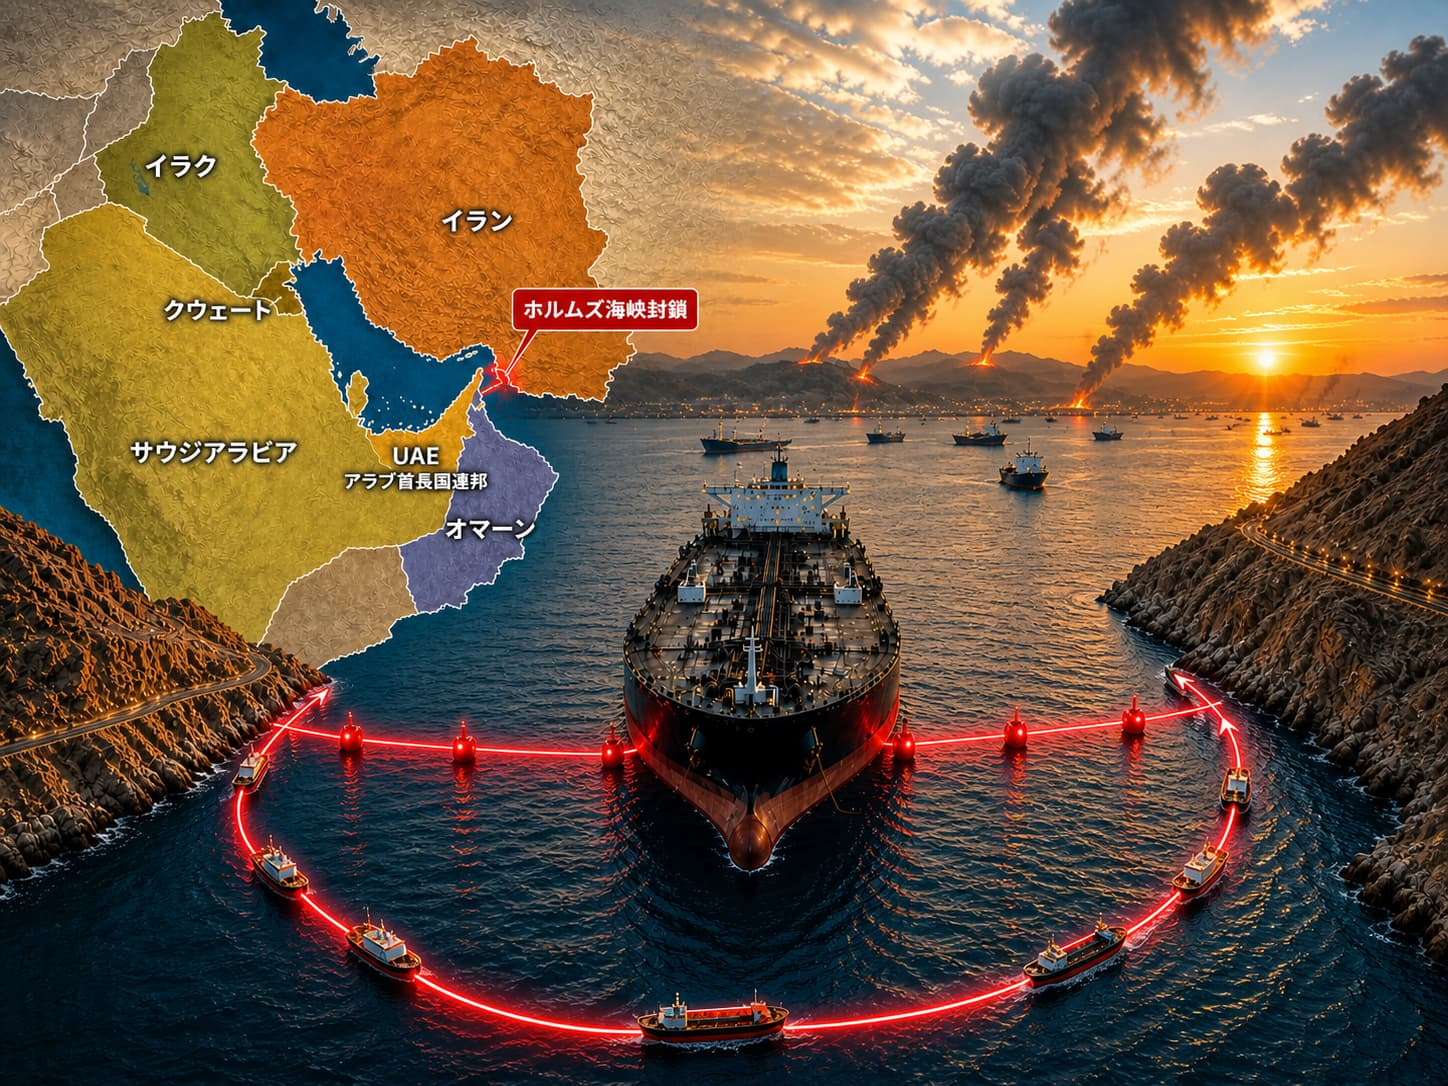
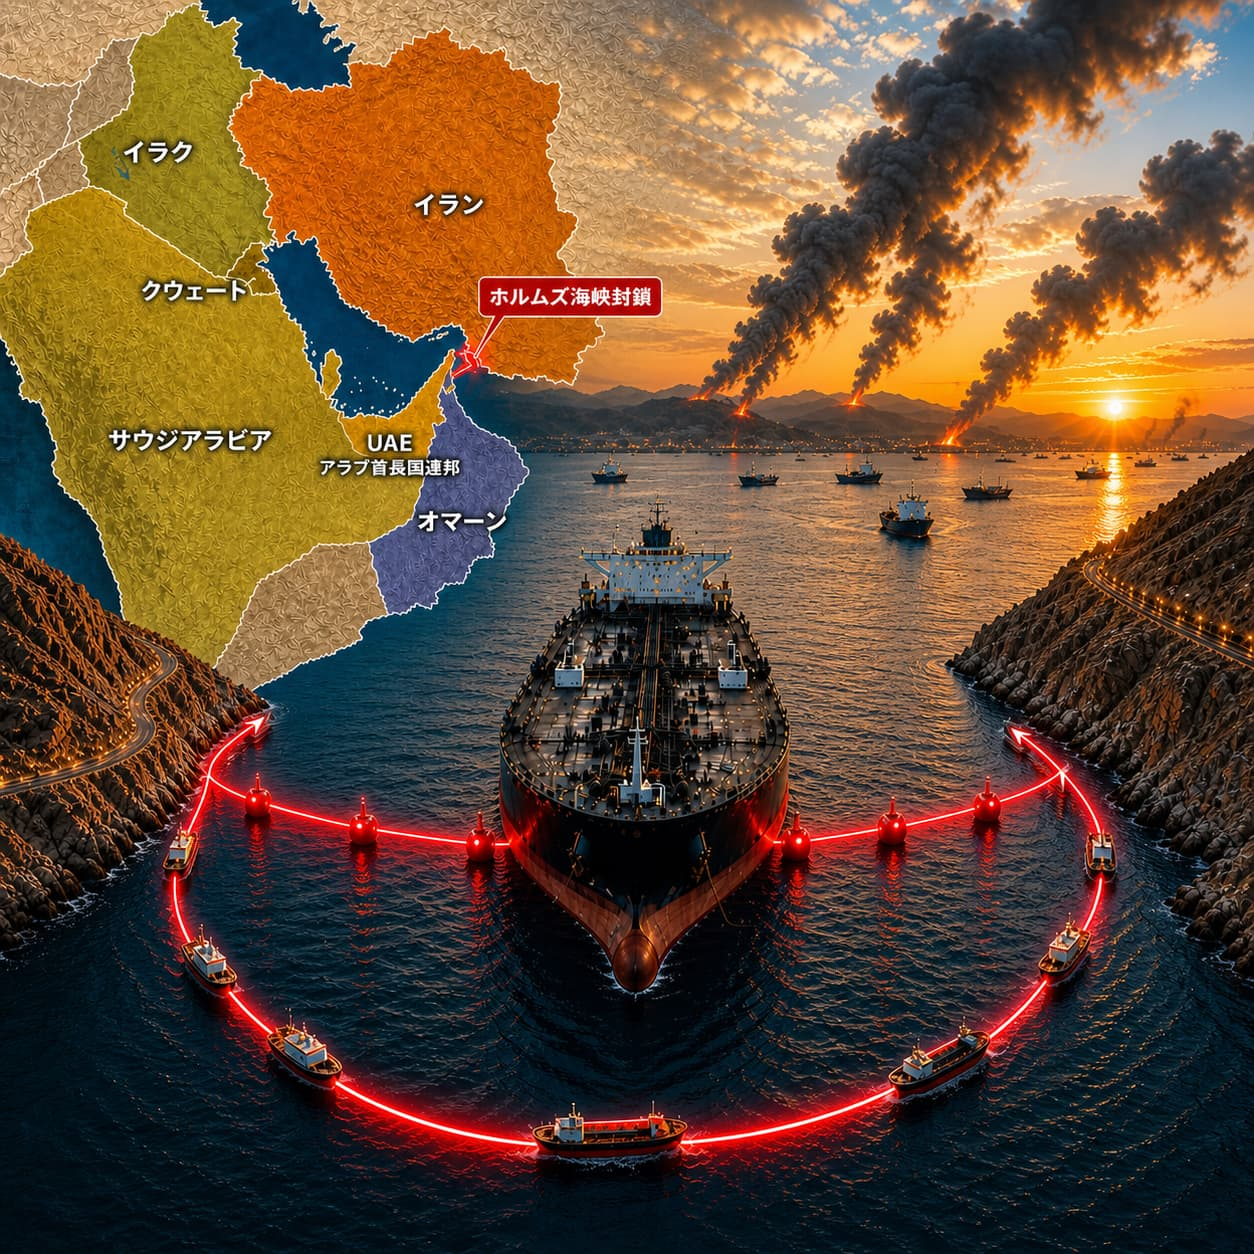
css

diff --git a/css/style.css b/css/style.css
@@ -2264,7 +2264,7 @@ section {
   position: relative;
   overflow: hidden;
   width: 100%;
-  aspect-ratio: 4 / 3;
+  aspect-ratio: 3 / 2;
 }
 
 .crisis-img {
